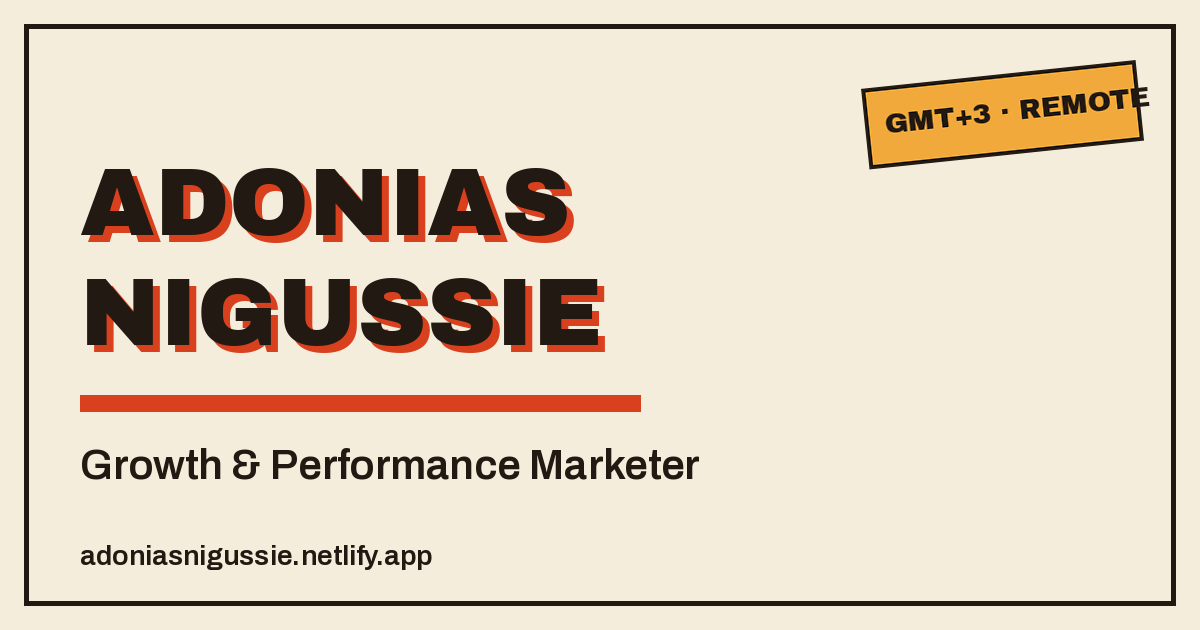
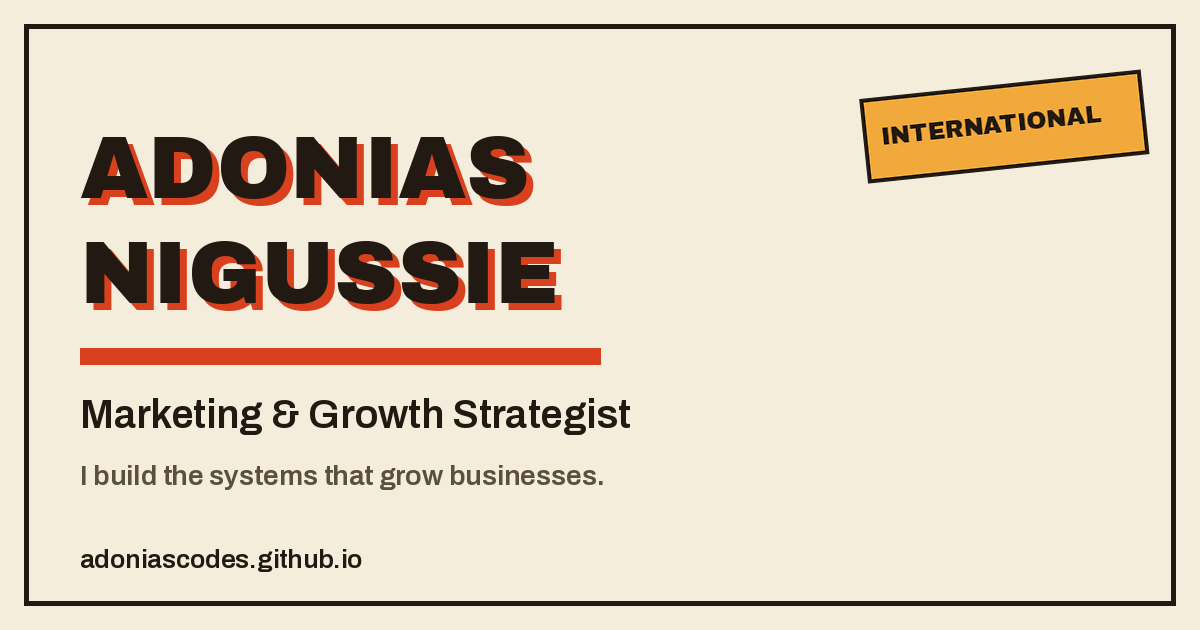
Reposition to 'operator who builds' (#2) + international framing; align case studies to official timeline (Recognise Aug 2024, Jaktech Head of Marketing Oct22-Mar24, grad 2022); regenerate OG image

Changed region(s): [[0.0617, 0.2111, 0.5858, 0.7841], [0.7092, 0.0905, 0.9558, 0.3016], [0.0617, 0.8444, 0.37, 0.9048]]

diff --git a/src/content/work/jaktech.md b/src/content/work/jaktech.md
@@ -2,8 +2,8 @@
 title: "A B2B product taken from 100 to 500 customers in a year"
 client: "Jaktech"
 clientDetail: "Jaktech Engineering & Trading PLC. In-house SaaS and ERP products."
-role: "Marketing Manager, promoted from Digital Marketer after 6 months"
-period: "September 2022 to June 2024"
+role: "Head of Marketing"
+period: "October 2022 to March 2024"
 teaser: "A B2B product taken from 100 to 500 customers in a year"
 tag: "Growth"
 order: 3
@@ -19,7 +19,7 @@ Jaktech's flagship B2B product was stuck near 100 customers. Marketing budget wa
 - The product grew from **100 to 500 customers** within one year
 - I contributed to roughly **60% of high-value client acquisition** through marketing and direct sales
 - An in-house product's social following grew to **40,000 in 2 months** on a **$300 budget**
-- I was **promoted to Marketing Manager** after 6 months
+- I owned the product's entire marketing function as **Head of Marketing**
 
 ## Approach
 

diff --git a/src/content/work/recognise-designs.md b/src/content/work/recognise-designs.md
@@ -2,8 +2,8 @@
 title: "How vertical SEO beat a market I could not outspend"
 client: "Recognise Design"
 clientDetail: "Recognise Design, United Kingdom. A digital agency; my main engagement was its client Electric Car Chargers UK."
-role: "SEO Specialist & Digital Marketing Consultant"
-period: "March 2023 to January 2025"
+role: "Search Engine Optimization Manager"
+period: "March 2023 to August 2024"
 teaser: "Top-3 rankings for 14 keywords by refusing to fight the head terms"
 tag: "SEO"
 order: 4

diff --git a/src/content/work/pairing-dev.md b/src/content/work/pairing-dev.md
@@ -2,7 +2,7 @@
 title: "The growth engine behind a multi-product SaaS studio"
 client: "Pairing.dev"
 clientDetail: "Pairing.dev, Estonia. A SaaS studio building several recurring-revenue products at once."
-role: "Growth & Digital Marketing Lead, Remote (part-time)"
+role: "Digital Marketing Manager & Growth Strategist, Part-time"
 period: "July 2025 to present"
 teaser: "From near-zero recurring revenue to a ~$22K MRR portfolio"
 tag: "Growth"
